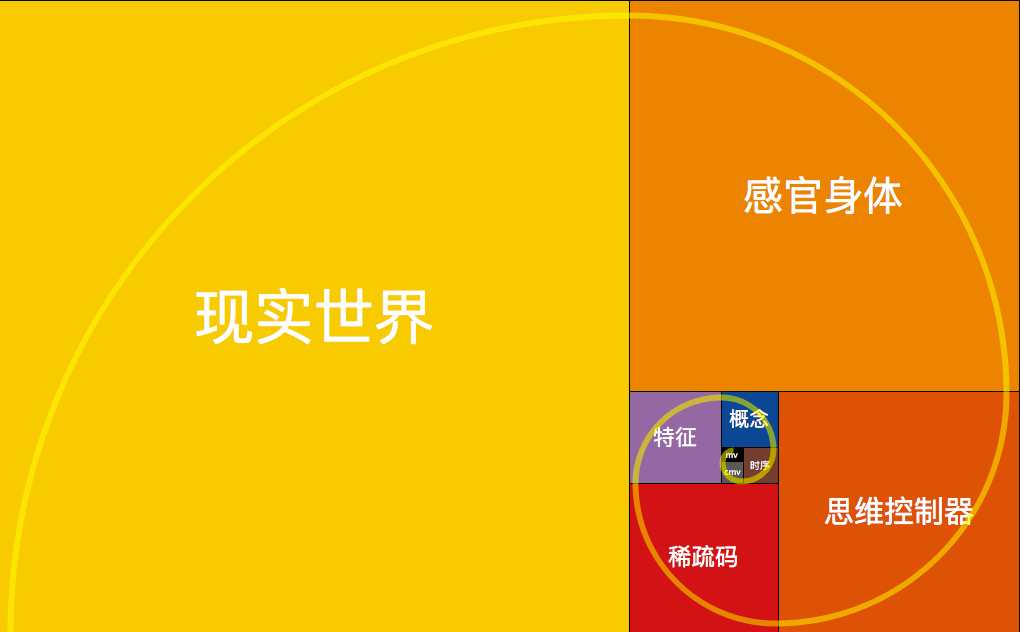
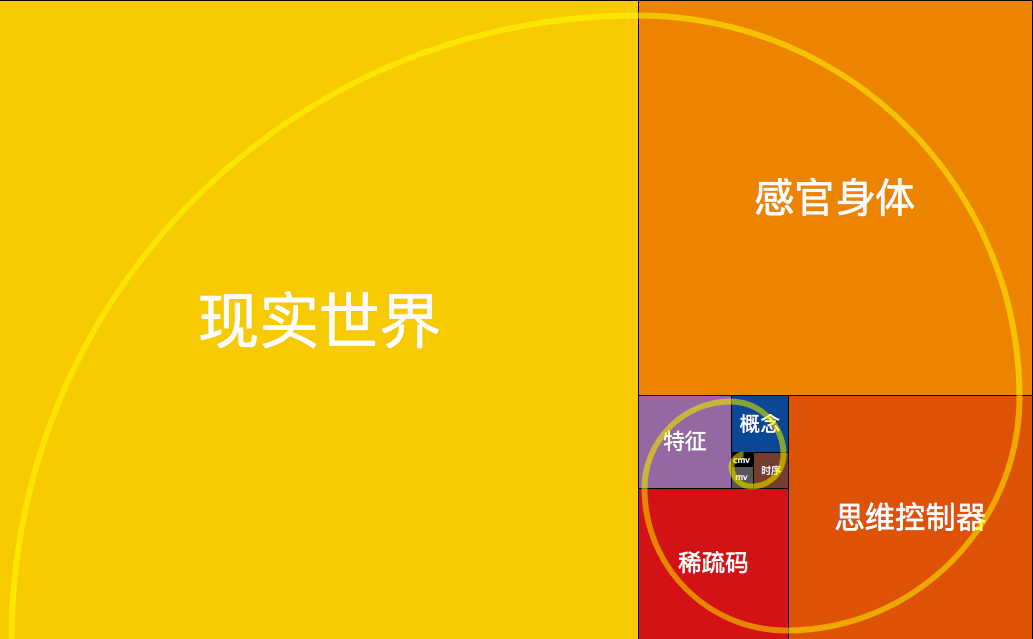
update 信息熵减机模型图;

diff --git a/Other/36_熵减机在人工智能中的应用.md b/Other/36_熵减机在人工智能中的应用.md
@@ -92,38 +92,34 @@
 
 　　信息熵减机模型以螺旋论展开。含：“MV”－“时序”－“概念”－“特征”－“稀疏码”－“思维控制器”－“现实世界”，模型整体呈现为螺旋双向。
 
-### 2. 由静到动：
+### 2. 双向静与动：
+
+　　从智能体主观角度，模型外为静，内为动。从现实世界客观角度，模型内为静，外为动。在相对中，其每一级与向内的所有之总和，与外一级相对。
+
+　　以下展开客观角度的由静到动和由动到静，主观角度略过，可自行依照模型图进行思考。
+
+### 3. 客观角度－由静到动：
 
 > 决策行为，从抽象向具象。
 
-　　以内到外的方向，即：“静微信息”－“动微信息”－“概念网络”－“时序网络”－“MV价值网络”－“思维控制器”－“现实世界”这样的方式逐级展开动起来。在相对中，其每一级前的总和为静，后一级为动。由静到动的情况如下：
+　　以内到外的方向，即：“MV价值”－“时序”－“概念”－“稀疏码”－“思维控制器”－“感官身体”－“现实世界”这样的方式逐级展开动起来。在相对中，其每一级前的总和为静，后一级为动。由静到动的情况如下：
 
-| 由静到动 >> | 相对静 | 到 | 相对动 |
-| --- | --- | --- | --- |
-| 1. 微信息中 | 静微信息 | 到 | 动微信息 |
-| 2. 静态概念网络中 | 微信息 | 到 | 概念网络 |
-| 3. 数据网络中 | 静态概念网络 | 到 | 时序网络 |
-| 4. 神经网络中 | 数据网络 | 到 | MV价值网络 |
-| 5. 智能体中 | 神经网络 | 到 | 思维控制器 |
-| 6. 物理世界中 | 智能体 | 到 | 现实世界 |
+| 由静到动 >> | 相对静 | 到 | 相对动 |  |
+| --- | --- | --- | --- | --- |
+| 1 | MV价值 | 到 | 时序 | 解释价值的实现方式 |
+| 2 | 内至时序 | 到 | 概念 | 解释时序由概念实现 |
+| 3 | 内至概念 | 到 | 特征 | 解释概念由特征实现 |
+| 4 | 内至特征 | 到 | 稀疏码 | 特征由稀疏码实现 |
+| 5 | 神经网络 | 到 | 思维控制器 | 神经网络由思维应用 |
+| 6 | 智能体 | 到 | 现实世界 | 智能体输出行为到现实世界 |
 
-### 3. 由动到静：
+### 4. 客观角度－由动到静：
 
 > 认知学习，从具象向抽象。
 
 　　相反，从外向内的方向，信息从现实世界流入到智能体，后逐步由动向静沉淀。其情况与上面相反（见下表）。从细节来说，是将输入的信息进行“类比”后发现规律并构建成网络的过程。即：“类比”－“规律”－“抽象”－“关联”－“网络”的处理过程。在智能体中，从无序化中找出有序化，并动态构建到网络中，以提供给智能体在需求中使用这些有序信息。
 
-
-| 由动到静 >> | 相对动 | 到 | 相对静 |
-| --- | --- | --- | --- |
-| 1. 物理世界中 | 现实世界 | 到 | 智能体 |
-| 2. 智能体中 | 思维控制器 | 到 | 神经网络 |
-| 3. 神经网络中 | MV价值网络 | 到 | 数据网络 |
-| 4. 数据网络中 | 时序网络 | 到 | 静态概念网络 |
-| 5. 静态概念网络中 | 概念网络 | 到 | 微信息 |
-| 6. 微信息中 | 动微信息 | 到 | 静微信息 |
-
-### 4. 螺旋论三大核心展开在信息熵减机中：
+### 5. 螺旋论三大核心展开在信息熵减机中：
 
 | 定义 >> |  |
 | --- | --- |

diff --git a/Other/44_信息熵减机模型.md b/Other/44_信息熵减机模型.md
@@ -24,3 +24,8 @@
 | --- |
 | 在细化模型中，信息熵减机将信息的“定义”、“相对”和“循环”充分体现。可应对非常活跃的熵增减环境，呈现出类人的智能水平。 |
 | 呈现出对后天信息的遗传算法，终身动态构建的神经网络。 |
+
+**图解：**
+1. 在智能体主观角度，此图为内动外静。
+2. 在现实世界客观角度，此图为内静外动。
+3. 图中螺旋为双向，即可由外向内，亦可由内向外。
